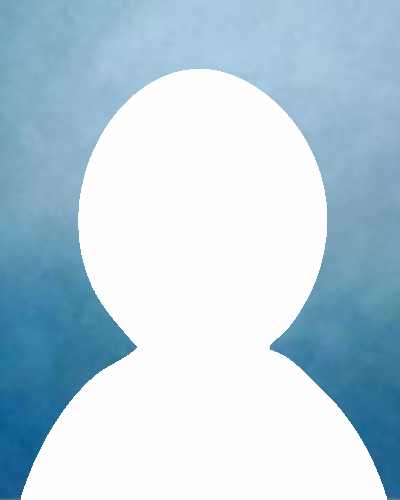
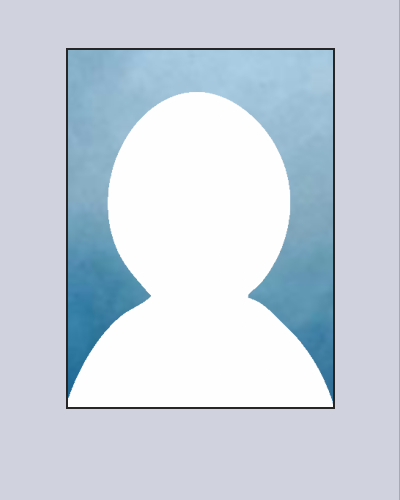
Refactoring tool objects and adding logic to show images for members in the browse screen.

diff --git a/ChurchMiceUI/src/app/browse-members/browse-members.component.ts b/ChurchMiceUI/src/app/browse-members/browse-members.component.ts
@@ -4,13 +4,12 @@ import { MemberService } from '@service/member/member.service';
 import { AuthService } from '@service/auth/auth.service';
 import { RoleValidator } from '@app/helper';
 import { NotificationService } from '@service/angular/notification.service';
-import { PhotoUploadService } from '@service/utility/photo-upload.service';
 import { DomSanitizer, SafeUrl } from '@angular/platform-browser';
 import { faArrowRotateLeft } from '@fortawesome/free-solid-svg-icons';
 import { MemberDto } from '@data/dto/member.dto';
-import { MemberImageDto } from '@data/dto/member-image.dto';
-import { first } from 'rxjs/operators';
-import { MemberImagesDto } from '@data/dto/member-images.dto';
+import { Roles } from '@service/user/roles';
+import { MemberContainer } from '@app/browse-members/member-container';
+
 
 @Component({
   selector: 'app-browse-members',
@@ -21,7 +20,9 @@ export class BrowseMembersComponent implements OnInit {
 
   faArrowRotateLeft = faArrowRotateLeft;
 
-  public members = new Array<MemberDto>();
+  public members = new Array<MemberContainer>();
+
+  readonly isUserMember: boolean;
 
   constructor( private route: ActivatedRoute,
                private router: Router,
@@ -29,19 +30,20 @@ export class BrowseMembersComponent implements OnInit {
                private authService: AuthService,
                private roleValidator: RoleValidator,
                private notifyService: NotificationService,
-               private photoUploadService: PhotoUploadService,
                private domSanitizer: DomSanitizer) {
     this.memberService.getAllEditableMembers().subscribe(data => {
-      this.members = this.sortMembers(data);
-      this.members = data;
-
+      this.sortMembers(data).forEach(member => {
+        this.members.push(new MemberContainer(this.memberService, this.domSanitizer, this.notifyService, member));
+      });
     });
+
+    this.isUserMember = roleValidator.isUserAuthorizedFor([Roles.MEMBER, Roles.ADMINISTRATOR]);
   }
 
   ngOnInit(): void {
   }
 
-  sortMembers(members: MemberDto[]): MemberDto[] {
+  private sortMembers(members: MemberDto[]): MemberDto[] {
     return members.sort((a,b) => {
       let comparison = a.lastName.localeCompare(b.lastName);
       if (comparison != 0) {
@@ -49,26 +51,5 @@ export class BrowseMembersComponent implements OnInit {
       }
       return a.firstName.localeCompare(b.firstName);
     })
-  }
-
-  getImageFor(memberId: number): SafeUrl {
-    // this.memberService.getMemberImages(memberId.toString(10))
-    //   .pipe(first())
-    //   .subscribe({
-    //     next: (memberImages: MemberImagesDto) => {
-    //       if (memberImages.images.length > 0) {
-    //         const memberImage = memberImages.images[0];
-    //         let objectURL = `data:${memberImage.fileType};base64,` + memberImage.fileContentBase64;
-    //         return this.domSanitizer.bypassSecurityTrustUrl(objectURL);
-    //       }
-    //       return this.domSanitizer.bypassSecurityTrustUrl("assets/images/ImagePlaceHolder.png")
-    //     },
-    //     error: (err: any) => {
-    //       this.notifyService.showError('Error while attempting to load user images by user\'s Id', 'Error loading user images');
-    //     },
-    //     complete: () => {}
-    //   });
-
-    return this.domSanitizer.bypassSecurityTrustUrl("assets/images/ImagePlaceHolder.png");
   }
 }

diff --git a/ChurchMiceUI/src/app/app.module.ts b/ChurchMiceUI/src/app/app.module.ts
@@ -18,15 +18,13 @@ import { fas } from '@fortawesome/free-solid-svg-icons';
 import { far } from '@fortawesome/free-regular-svg-icons';
 import { CurrentUserService } from '@service/auth/current-user.service';
 import { NgbDateParserFormatter, NgbModule } from '@ng-bootstrap/ng-bootstrap';
-import { InputDirectiveModule } from '@app/directive/input-directive.module';
+import { InputDirectiveModule } from '@tool/directive/input-directive.module';
 import { CommonModule } from '@angular/common';
-import { UnitedStatesDateParserFormatter } from '@app/formatter';
 import { BrowserAnimationsModule } from '@angular/platform-browser/animations';
 import { ToastrModule } from 'ngx-toastr';
 import { LoginComponent } from '@app/login/login.component';
 import { LogoutComponent } from '@app/logout/logout.component';
 import { ForgottenPasswordComponent } from '@app/forgotten-password/forgotten-password.component';
-import { USCurrencyPipe, USPhonePipe } from '@app/pipes';
 import { NewLoginComponent } from '@app/new-login/new-login.component';
 import { CreateMemberComponent } from '@app/create-member/create-member.component';
 import { NgxCaptchaModule } from 'ngx-captcha';
@@ -47,10 +45,12 @@ import { EditPasswordComponent } from '@app/edit-password/edit-password.componen
 import { ManageMembersComponent } from '@app/manage-members/manage-members.component';
 import { EditMemberComponent } from '@app/edit-member/edit-member.component';
 import { SingleFileUploadComponent } from '@app/single-file-upload/single-file-upload.component';
-import { UploadService } from '@service/utility/upload.service';
+import { UploadService } from '@service/index';
 import { ApproveMemberImagesComponent } from '@app/approve-member-images/approve-member-images.component';
 import { AboutComponent } from '@app/about/about.component';
 import { BrowseMembersComponent } from '@app/browse-members/browse-members.component';
+import { UnitedStatesDateParserFormatter, USPhonePipe, USCurrencyPipe, PoliteDatePipe } from '@tool/index';
+
 
 library.add(fas, far);
 
@@ -79,6 +79,7 @@ library.add(fas, far);
     ConfirmationDialogComponent,
     ManageMembersComponent,
     USPhonePipe,
+    PoliteDatePipe,
     SingleFileUploadComponent,
     ApproveMemberImagesComponent,
     AboutComponent,

diff --git a/ChurchMiceUI/src/tool/pipes/polite-date-pipe.ts b/ChurchMiceUI/src/tool/pipes/polite-date-pipe.ts
@@ -1,0 +1,73 @@
+import { Pipe, PipeTransform } from '@angular/core';
+import { parsePhoneNumber } from 'libphonenumber-js';
+
+@Pipe({name: 'politeDatePipe'})
+export class PoliteDatePipe implements PipeTransform {
+
+  private monthNames = ["Unknown", "January", "February", "March", "April", "May", "June", "July", "August", "September", "October", "November", "December"];
+
+
+  transform(possibleDate: any): string {
+
+    if (!possibleDate || possibleDate.toString() === '') {
+      return '';
+    }
+
+    var formatted = this.formatFullUSDate(possibleDate);
+    if (formatted) {
+      return formatted;
+    }
+
+    formatted = this.formatISODate(possibleDate);
+    if (formatted) {
+      return formatted;
+    }
+
+    formatted = this.formatShortUSDate(possibleDate);
+    if (formatted) {
+      return formatted;
+    }
+    return '';
+  }
+
+  private formatFullUSDate(possibleDate: any): string | null {
+
+    // is this a date formatted MM/DD/YYYY?
+    const pattern = /^(\d{1,2})\/(\d{1,2})\/(\d{4})$/;
+    const match = possibleDate.toString().match(pattern);
+    if (match.length == 4) {
+      return this.getMonthFor(match[1]) + ' ' + match[2];
+    }
+    return null;
+  }
+
+  private formatISODate(possibleDate: any): string | null {
+
+    // is this a date formatted YYYY-MM-DD
+    let pattern = /^(\d{4})-(\d{1,2})-(\d{1,2})$/;
+    const match = possibleDate.toString().match(pattern);
+    if (match.length == 4) {
+      return this.getMonthFor(match[2]) + ' ' + match[3];
+    }
+    return null;
+  }
+
+  private formatShortUSDate(possibleDate: any): string | null {
+
+    // is this a date formatted MM/DD?
+    let pattern = /^(\d{1,2})\/(\d{1,2})$/;
+    const match = possibleDate.toString().match(pattern);
+    if (match.length == 3) {
+      return this.getMonthFor(match[1]) + ' ' + match[2];
+    }
+    return null;
+  }
+
+  private getMonthFor(monthNumber: string): string {
+    let month = parseInt(monthNumber, 10);
+    if (month > 12) {
+      month = 0;
+    }
+    return this.monthNames[month];
+  }
+}

diff --git a/ChurchMiceUI/src/app/browse-members/member-container.ts b/ChurchMiceUI/src/app/browse-members/member-container.ts
@@ -1,0 +1,35 @@
+import { DomSanitizer, SafeUrl } from '@angular/platform-browser';
+import { MemberDto } from '@data/dto/member.dto';
+import { first } from 'rxjs/operators';
+import { MemberImagesDto } from '@data/dto/member-images.dto';
+import { MemberService } from '@service/member/member.service';
+import { NotificationService } from '@service/angular/notification.service';
+
+export class MemberContainer {
+
+  public member: MemberDto;
+  public memberImageUrl: SafeUrl = this.domSanitizer.bypassSecurityTrustUrl("assets/images/ImagePlaceHolder.png");
+
+  constructor(private memberService: MemberService,
+              private domSanitizer: DomSanitizer,
+              private notifyService: NotificationService,
+              member: MemberDto) {
+    this.member = member;
+
+    this.memberService.getMemberImages(member.id.toString(10))
+      .pipe(first())
+      .subscribe({
+        next: (memberImages: MemberImagesDto) => {
+          if (memberImages.images.length > 0) {
+            const memberImage = memberImages.images[0];
+            let objectURL = `data:${memberImage.fileType};base64,` + memberImage.fileContentBase64;
+            this.memberImageUrl = this.domSanitizer.bypassSecurityTrustUrl(objectURL);
+          }
+        },
+        error: (err: any) => {
+          this.notifyService.showError(`Error while attempting to load member images for ${member.id}`, 'Error loading member images');
+        },
+        complete: () => {}
+      });
+  }
+}

diff --git a/ChurchMiceUI/src/app/browse-members/browse-members.component.html b/ChurchMiceUI/src/app/browse-members/browse-members.component.html
@@ -8,11 +8,17 @@
   <div class="row">
     <div *ngFor="let member of this.members" class="col-xl-2 col-lg-3 col-md-4 col-sm-6 col-8">
       <div class="member-block">
-        <img class="memberImage" alt="Image of member" [src]="getImageFor(member.id)">
+        <img class="memberImage" alt="Image of member" [src]="member.memberImageUrl">
         <div class="member-block-text">
-          <h5>{{ member.firstName }}</h5>
-          <h5>{{ member.lastName }}</h5>
-          <h6>{{ member.memberSince ? "Member" : "Attender" }}</h6>
+          <h5>{{ member.member.firstName }}</h5>
+          <h5>{{ member.member.lastName }}</h5>
+          <h6>{{ member.member.memberSince ? "Member" : "Attender" }}</h6>
+          <div *ngIf="this.isUserMember">
+            <h6 *ngIf="member.member.mobilePhone && member.member.mobilePhone !== ''">Mobile {{ member.member.mobilePhone }}</h6>
+            <h6 *ngIf="member.member.homePhone && member.member.homePhone !== ''">Home {{ member.member.homePhone }}</h6>
+            <h6 *ngIf="member.member.birthday && member.member.birthday !== ''">Birthday: {{ member.member.birthday | politeDatePipe }}</h6>
+            <h6 *ngIf="member.member.anniversary && member.member.anniversary !== ''">Anniversary: {{ member.member.anniversary | politeDatePipe }}</h6>
+          </div>
         </div>
       </div>
     </div>

diff --git a/ChurchMiceUI/src/tool/index.ts b/ChurchMiceUI/src/tool/index.ts
@@ -1,0 +1,8 @@
+export * from './formatter/us-date-parser-formatter';
+
+export * from './pipes/us-currency-pipe';
+export * from './pipes/us-phone-pipe';
+export * from './pipes/polite-date-pipe';
+
+export * from './directive/digit-only.directive';
+export * from './directive/input-directive.module';

diff --git a/ChurchMiceUI/src/service/index.ts b/ChurchMiceUI/src/service/index.ts
@@ -6,8 +6,6 @@ export * from './auth/current-user.service';
 
 export * from './configuration/configuration.service';
 
-export * from './formatter/us-date-parser-formatter';
-
 export * from './key-support/api-key-reader.service.interface'
 export * from './key-support/api-key-reader.service'
 
